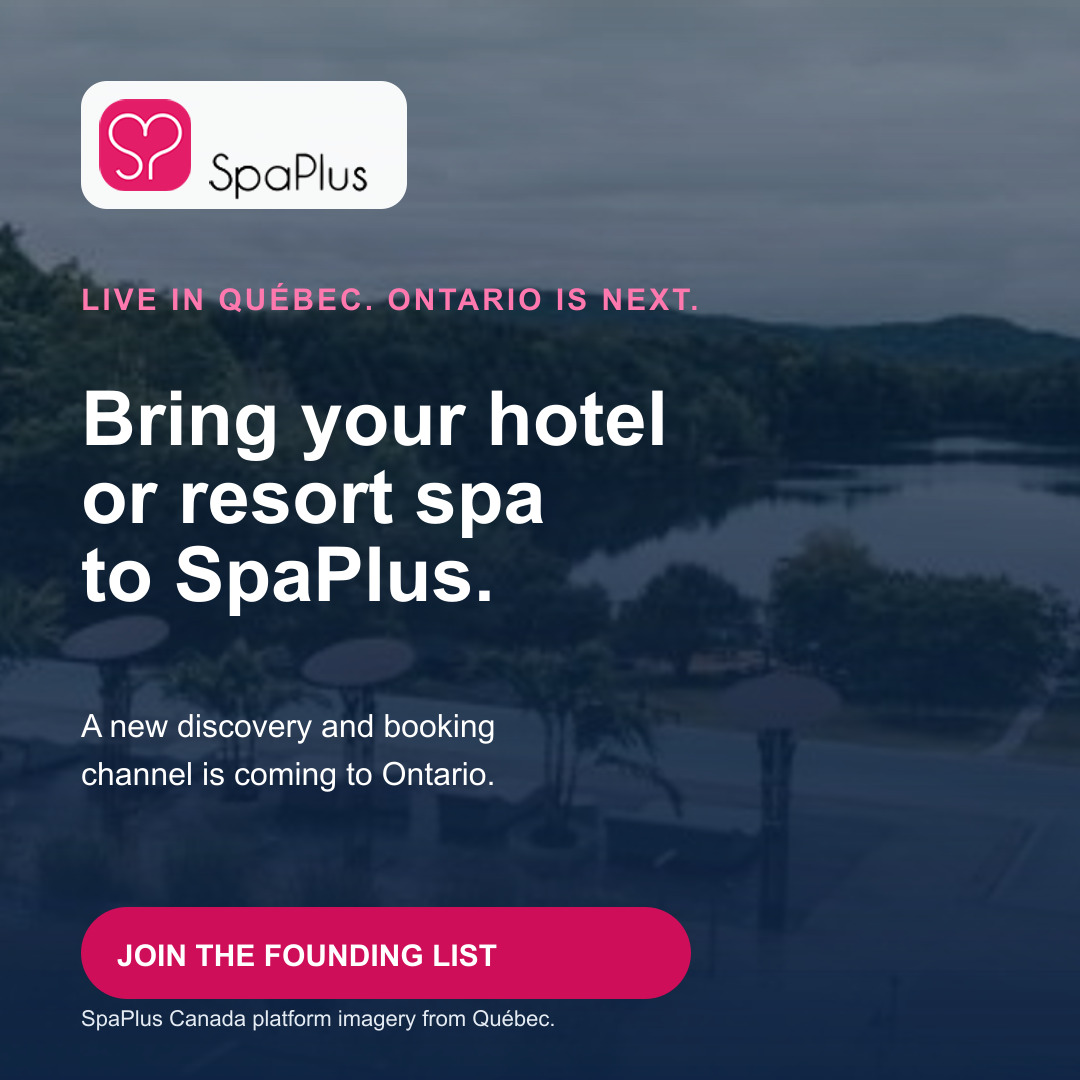
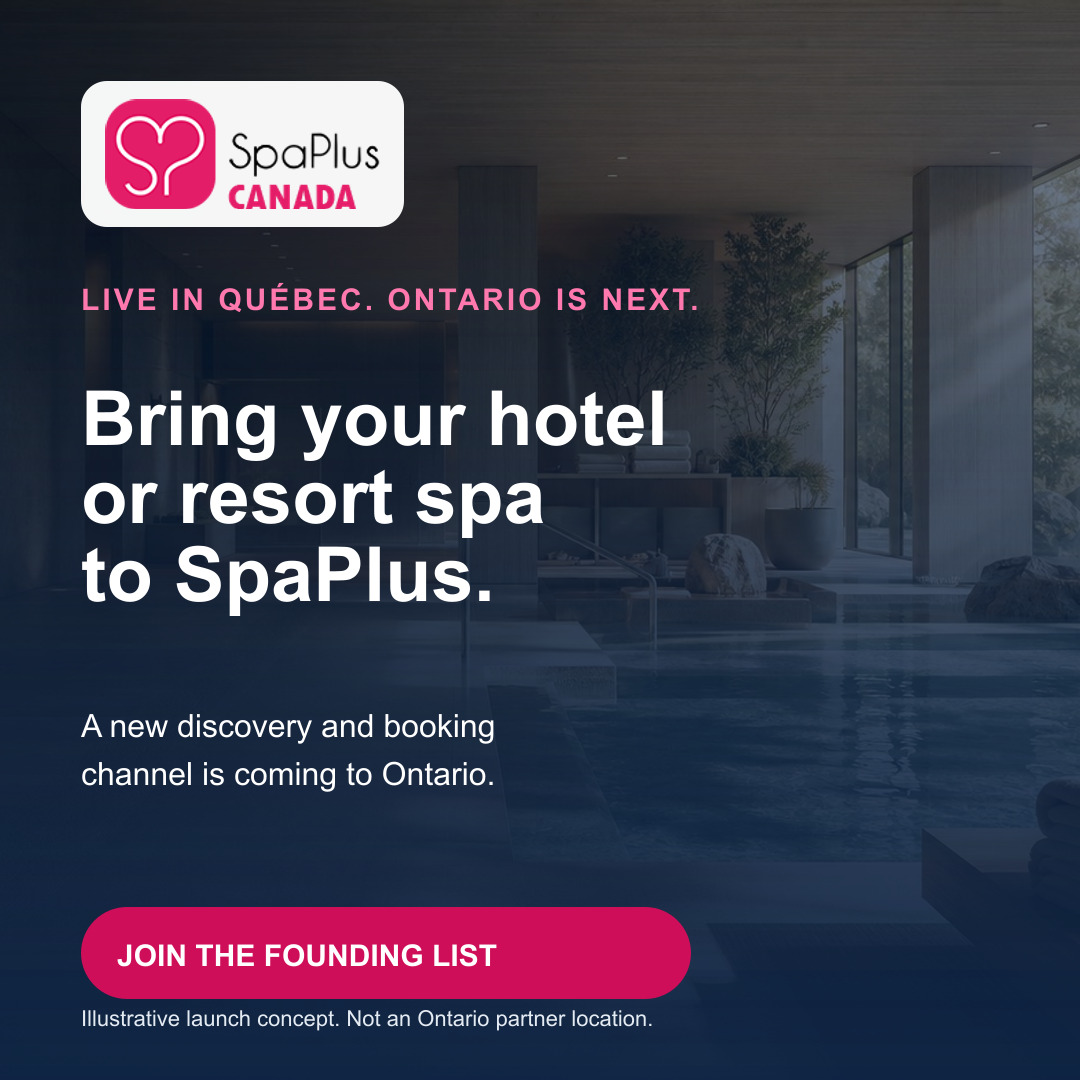
Add Ontario campaign creative preview

diff --git a/app/ads/ontario-preview/preview.module.css b/app/ads/ontario-preview/preview.module.css
@@ -1,0 +1,206 @@
+.page {
+  min-height: 100vh;
+  color: #142b4d;
+  background:
+    radial-gradient(circle at 92% 2%, rgba(240, 13, 99, 0.12), transparent 28rem),
+    linear-gradient(180deg, #fff 0%, #f4f7fb 100%);
+  padding: 44px clamp(20px, 5vw, 82px) 54px;
+}
+
+.hero {
+  max-width: 1320px;
+  margin: 0 auto 28px;
+  display: grid;
+  grid-template-columns: 220px minmax(0, 1fr);
+  align-items: center;
+  gap: clamp(32px, 6vw, 96px);
+  padding: 38px;
+  border: 1px solid rgba(20, 43, 77, 0.12);
+  border-radius: 34px;
+  background: rgba(255, 255, 255, 0.88);
+  box-shadow: 0 24px 70px rgba(20, 43, 77, 0.09);
+}
+
+.logo {
+  width: 100%;
+  height: auto;
+}
+
+.heroCopy h1 {
+  max-width: 860px;
+  margin: 10px 0 14px;
+  font-size: clamp(2.4rem, 5.4vw, 5.4rem);
+  line-height: 0.96;
+  letter-spacing: -0.055em;
+}
+
+.heroCopy p:last-child {
+  max-width: 780px;
+  margin: 0;
+  color: #5d6f87;
+  font-size: 1.05rem;
+  line-height: 1.7;
+}
+
+.eyebrow {
+  margin: 0;
+  color: #f00d63;
+  font-size: 0.77rem;
+  font-weight: 800;
+  letter-spacing: 0.2em;
+}
+
+.notice {
+  max-width: 1320px;
+  margin: 0 auto 52px;
+  display: flex;
+  align-items: center;
+  gap: 16px;
+  padding: 17px 22px;
+  border-radius: 18px;
+  color: #fff;
+  background: #142b4d;
+}
+
+.notice strong {
+  flex: 0 0 auto;
+  color: #ff5d93;
+}
+
+.notice span {
+  color: #e4ebf5;
+}
+
+.languageSection {
+  max-width: 1320px;
+  margin: 0 auto 68px;
+}
+
+.sectionHeading {
+  display: flex;
+  align-items: center;
+  gap: 14px;
+  margin-bottom: 22px;
+}
+
+.sectionHeading span,
+.cardHeading span {
+  padding: 7px 11px;
+  border-radius: 999px;
+  color: #f00d63;
+  background: #ffe4ee;
+  font-size: 0.72rem;
+  font-weight: 800;
+  letter-spacing: 0.1em;
+}
+
+.sectionHeading h2,
+.cardHeading h3 {
+  margin: 0;
+}
+
+.sectionHeading h2 {
+  font-size: clamp(1.75rem, 3vw, 2.6rem);
+}
+
+.grid {
+  display: grid;
+  grid-template-columns: repeat(3, minmax(0, 1fr));
+  align-items: start;
+  gap: 22px;
+}
+
+.card {
+  overflow: hidden;
+  border: 1px solid rgba(20, 43, 77, 0.12);
+  border-radius: 24px;
+  background: #fff;
+  box-shadow: 0 18px 50px rgba(20, 43, 77, 0.08);
+}
+
+.cardHeading {
+  display: flex;
+  align-items: center;
+  justify-content: space-between;
+  gap: 16px;
+  padding: 18px 20px;
+}
+
+.cardHeading h3 {
+  font-size: 1rem;
+}
+
+.card img {
+  display: block;
+  width: 100%;
+  height: auto;
+  background: #142b4d;
+}
+
+.footer {
+  max-width: 1320px;
+  margin: 0 auto;
+  display: flex;
+  justify-content: space-between;
+  align-items: center;
+  gap: 18px;
+  padding-top: 32px;
+  border-top: 1px solid rgba(20, 43, 77, 0.14);
+}
+
+.footer p {
+  margin: 0;
+  font-weight: 800;
+}
+
+.footer a {
+  padding: 13px 20px;
+  border-radius: 999px;
+  color: #fff;
+  background: #f00d63;
+  font-weight: 800;
+  text-decoration: none;
+}
+
+@media (max-width: 900px) {
+  .hero {
+    grid-template-columns: 1fr;
+  }
+
+  .logo {
+    width: 180px;
+  }
+
+  .grid {
+    grid-template-columns: 1fr;
+  }
+
+  .card {
+    max-width: 620px;
+  }
+}
+
+@media (max-width: 560px) {
+  .page {
+    padding: 18px 14px 32px;
+  }
+
+  .hero {
+    padding: 24px 20px;
+    border-radius: 24px;
+  }
+
+  .notice,
+  .footer {
+    align-items: flex-start;
+    flex-direction: column;
+  }
+
+  .notice {
+    margin-bottom: 42px;
+  }
+
+  .card {
+    border-radius: 20px;
+  }
+}

diff --git a/app/ads/ontario-preview/page.tsx b/app/ads/ontario-preview/page.tsx
@@ -1,0 +1,75 @@
+import type { Metadata } from "next";
+import styles from "./preview.module.css";
+
+export const metadata: Metadata = {
+  title: "SpaPlus Canada | Ontario campaign preview",
+  description: "Approved English and Canadian French campaign creative for the SpaPlus Ontario launch.",
+  robots: { index: false, follow: false },
+};
+
+const variants = [
+  { key: "square", label: "Square feed", ratio: "1:1" },
+  { key: "portrait", label: "Portrait feed", ratio: "4:5" },
+  { key: "story", label: "Stories and Reels", ratio: "9:16" },
+] as const;
+
+const languages = [
+  { code: "en", title: "English, Canada", badge: "EN CA" },
+  { code: "fr", title: "Français, Canada", badge: "FR CA" },
+] as const;
+
+export default function OntarioCampaignPreview() {
+  return (
+    <main className={styles.page}>
+      <header className={styles.hero}>
+        <img
+          className={styles.logo}
+          src="/ontario/spaplus-canada-logo.png"
+          alt="SpaPlus Canada"
+        />
+        <div className={styles.heroCopy}>
+          <p className={styles.eyebrow}>ONTARIO CAMPAIGN CREATIVE</p>
+          <h1>Built to get the right spas discovered.</h1>
+          <p>
+            Final creative preview for Facebook and Instagram, prepared in Canadian English and Canadian French.
+          </p>
+        </div>
+      </header>
+
+      <section className={styles.notice} aria-label="Creative disclosure">
+        <strong>Creative note</strong>
+        <span>
+          The wellness setting is an illustrative SpaPlus launch concept. It does not depict an Ontario partner location.
+        </span>
+      </section>
+
+      {languages.map((language) => (
+        <section className={styles.languageSection} key={language.code}>
+          <div className={styles.sectionHeading}>
+            <span>{language.badge}</span>
+            <h2>{language.title}</h2>
+          </div>
+          <div className={styles.grid}>
+            {variants.map((variant) => (
+              <article className={styles.card} key={variant.key}>
+                <div className={styles.cardHeading}>
+                  <h3>{variant.label}</h3>
+                  <span>{variant.ratio}</span>
+                </div>
+                <img
+                  src={`/ads/ontario-preview/${language.code}-a-${variant.key}.jpg`}
+                  alt={`${language.title} ${variant.label} campaign creative`}
+                />
+              </article>
+            ))}
+          </div>
+        </section>
+      ))}
+
+      <footer className={styles.footer}>
+        <p>SpaPlus Canada</p>
+        <a href="https://app.spaplus.co/en-ca/ontario">View the Ontario landing page</a>
+      </footer>
+    </main>
+  );
+}
